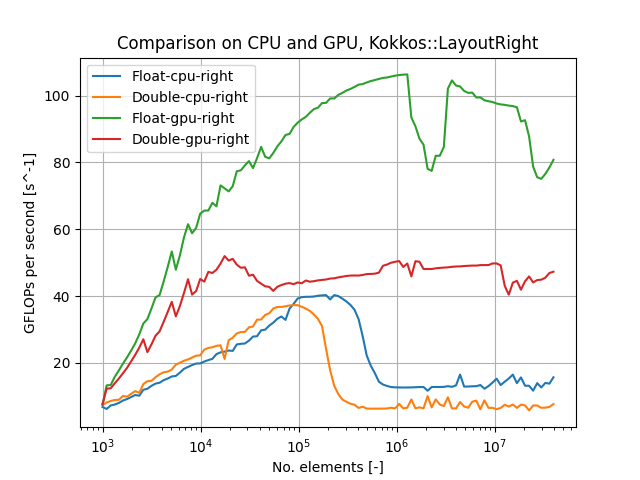
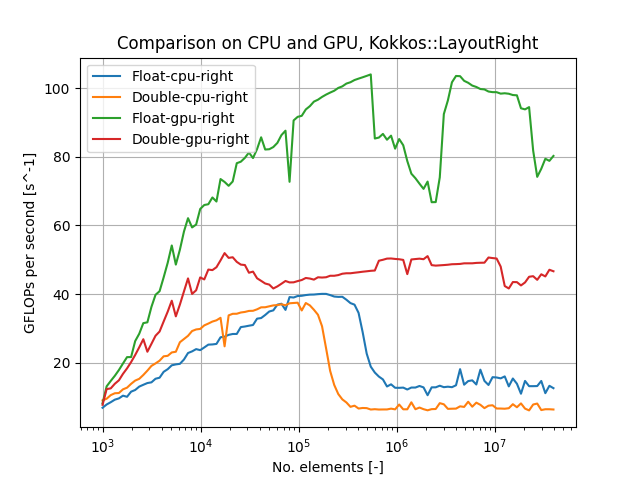
L4

diff --git a/L4/plots.py b/L4/plots.py
@@ -2,7 +2,7 @@ import os
 import matplotlib.pyplot as plt
 ## Rerun with align option
 
-f = "TESTRESULTS2.txt"
+f = "gputime.txt"
 count = 0
 data = [];
 test_data = {}
